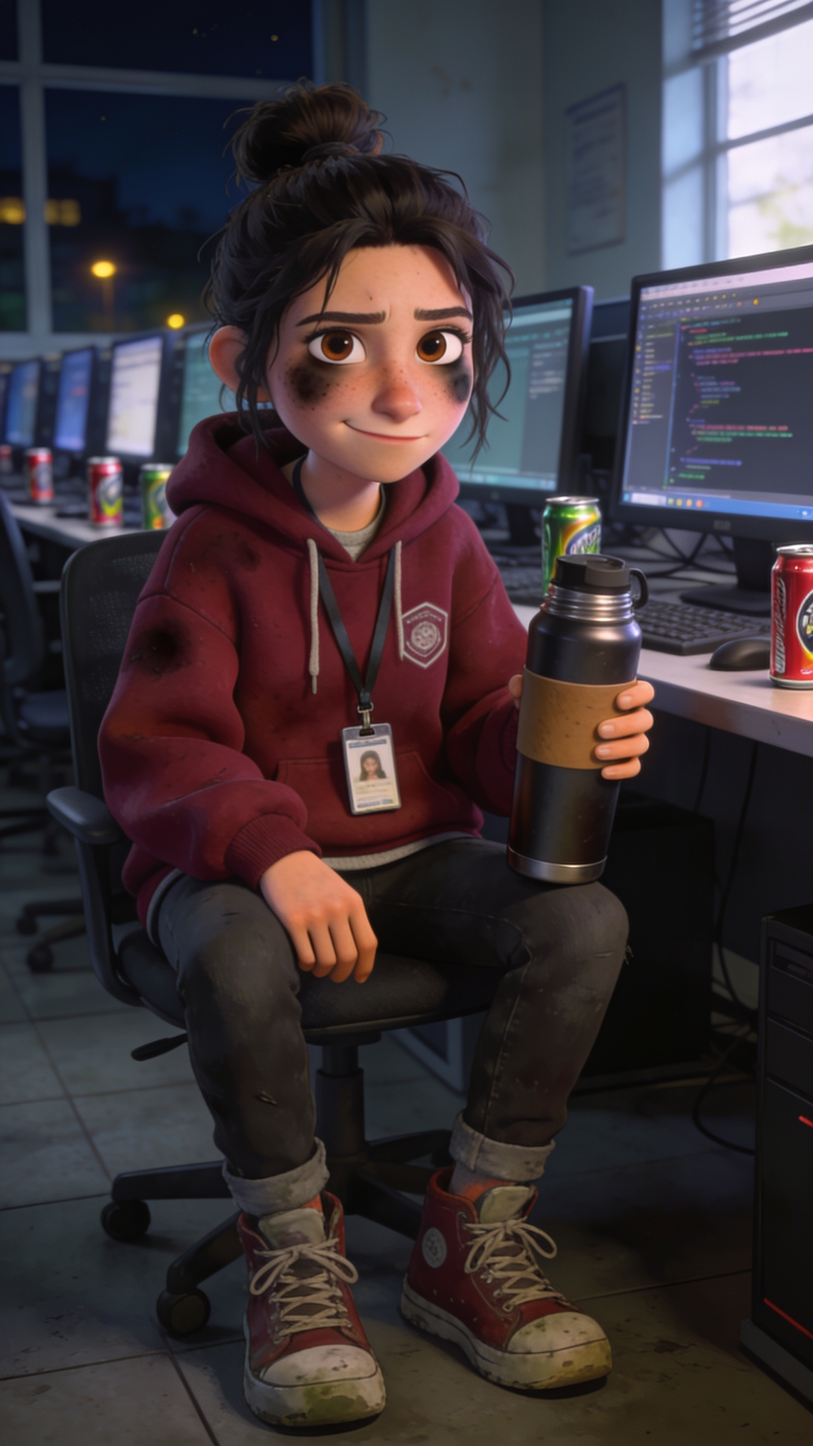
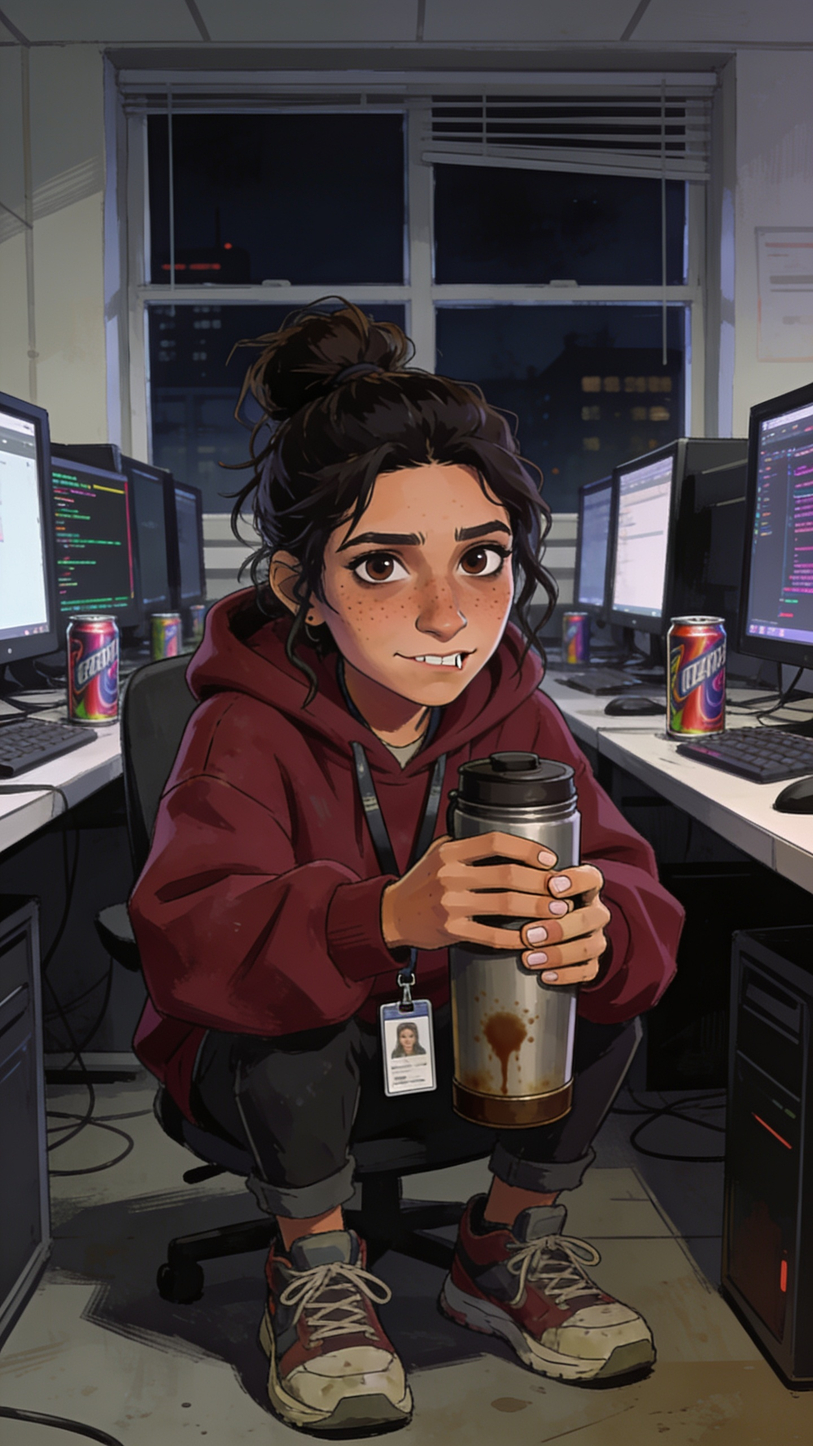
feat(série): cast v2 — réalisme stylisé adulte (âges, types, imperfections)
DA corrigée après feedback : veine Arcane, proportions réalistes,
règle des imperfections gravée dans la bible (dents de travers,
barbe clairsemée, cernes vraies, lèvres gercées...).
Fiches canon v2 : âges + types + 2-3 défauts-charme par perso.

diff --git a/series/bible.md b/series/bible.md
@@ -224,5 +224,115 @@ L'identité vit dans des **fichiers de référence**, pas dans des descriptions.
 
 ---
 
+## 13. Les caricatures — fiches physiques canoniques
+
+> Principe : **la silhouette raconte le personnage avant qu'il parle.**
+> Chaque perso a SA forme, SA couleur, SON accessoire. Reconnaissable en 0,3 s.
+> Règle de génération : décrire la TECHNIQUE, jamais une franchise.
+> Interdit : lumière dorée chaleureuse + grands yeux (tue le deadpan).
+
+### Rendu officiel ✅ (v2 — corrigé après feedback auteur)
+**Réalisme stylisé adulte, veine Arcane** : proportions et structure faciale
+RÉALISTES (des adultes de 25 ans, pas des personnages mignons), textures
+peintes à la main, coups de pinceau visibles, trame légère, palette
+neutre-froide, lumière naturelle dramatique mais sobre.
+**Interdits** : yeux surdimensionnés, rondeurs Pixar, peau lisse parfaite,
+look « dessin animé enfant ». (Référence interne : `da-tests/sam-hybride.png`.)
+
+**Règle des imperfections** : chaque visage porte 2–3 défauts qui font son
+charme — dents légèrement de travers, barbe clairsemée de mec de 25 ans,
+cicatrices d'acné, cernes vraies, nez pas droit, oreilles décollées, frisottis,
+lèvres gercées, ongles rongés. La perfection tue l'identification (loi 1 :
+hyper-spécificité — ça vaut aussi pour les visages).
+
+### Âges, types et imperfections (canon v2)
+- **Téo, 24** — Français rural (Massif central). Peau hâlée par le dehors,
+  taches de rousseur, dents du bonheur légères dans un sourire franc, oreilles
+  un peu décollées, coupe « coiffeur du village » ratée aux pattes.
+- **Sam, 26** — Franco-algérien. Buzz cut à la ligne nette, barbe courte
+  taillée au millimètre, cernes creusées permanentes, nez busqué légèrement
+  dévié, petites cicatrices d'acné sur les joues.
+- **Nabil, 25** — Franco-marocain. Boucles avec frisottis, **barbe clairsemée
+  qui ne se connecte pas** (la barbe de 25 ans), sourcils épais presque
+  joints, cernes légères, ongles rongés, col de chemise jamais net.
+- **Jimmy, 26** — Français, bronzage limite artificiel. Banane gélifiée qui
+  commence DÉJÀ à se dégarnir aux tempes, sourire trop blanc un poil trop
+  grand, irritation de rasoir dans le cou, fine pellicule de sueur d'effort
+  permanent. Son imperfection : l'effort se voit.
+- **Inès, 25** — Franco-tunisienne. Chignon qui fuit en mèches folles, cernes
+  douces et vraies (PAS des coquards), lèvres gercées, ongles rongés sur le
+  thermos, tache de café sur le hoodie.
+- **Léna, 25** — Métisse franco-sénégalaise. **Petit écart entre les dents de
+  devant — son charme signature**, baby hairs qui s'échappent, taches de
+  rousseur claires, cardigan crème un peu bouloché (la perfection vécue,
+  pas neuve).
+- **Pierre-Édouard, 52** — Français. Front trop lisse pour son âge (botox)
+  mais pattes d'oie, dents trop blanches, léger embonpoint sous le blazer,
+  marque de bronzage des lunettes de soleil.
+
+### TÉO — formes RONDES, couleur VERT/TERRE
+Carrure de ferme : épaules larges, joues pleines et colorées, sourcils épais.
+Coupe courte pratique « coiffeur du village ». Polaire ou polo trop propre
+acheté exprès pour Paris, pantalon un poil trop court, chaussettes de sport
+blanches. **Accessoire** : sac à dos porté sur LES DEUX épaules + écharpe du
+club de foot de son bled. **Expression canonique** : sourire ouvert, yeux
+légèrement dépassés par les événements. **Décor** : chambre aux sacs Ikea.
+
+### SAM — silhouette VERTICALE, couleur NOIR
+Grand, sec, posture impeccable. **Dé-Milesé** : crâne dégradé court (buzz/fade)
++ barbe courte entretenue au millimètre. Paupières mi-closes permanentes.
+**L'uniforme** : sept hoodies noirs identiques (la caricature de son
+organisation — même tenue chaque jour), claquettes-chaussettes à la coloc.
+**Accessoire** : casque autour du cou + un tupperware à la main. Gestes lents,
+économes. **Expression canonique** : deadpan absolu — il a déjà répondu dans sa
+tête et a décidé que ça ne valait pas la peine. **Décor** : son coin, étagère
+de meal preps.
+
+### NABIL — silhouette PENCHÉE EN AVANT, couleur BLEU-GRIS
+Taille moyenne, boucles en bataille (à force d'y passer les mains), cernes
+légères, sourcils ultra-expressifs — le visage qui pense trop fort. Vêtements
+en couches qui ne tranchent pas : chemise ouverte sur t-shirt (entre formel et
+casual = incapable de choisir, même vestimentairement). **Accessoire** : tote
+bag débordant de bouquins + téléphone à 14 onglets en main. **Expression
+canonique** : sourcils froncés, bouche entrouverte — sur le point de poser une
+question. **Décor** : bureau chaos organisé, piles de livres, double écran.
+
+### JIMMY — silhouette EN V, couleur MARINE + BLANC ÉCLATANT
+Coiffé-gélifié frais du barbier, sourire de pitch permanent, sourcils en
+position « opportunité ». **L'uniforme startup** : doudoune SANS MANCHES sur
+chemise, sneakers blanches immaculées, montre connectée. **Accessoire** :
+AirPods vissés en permanence (même quand tu lui parles) + téléphone tenu comme
+un micro. **Expression canonique** : sourire 100 % confiance, regard déjà sur
+le prochain truc. **Décor** : devant un whiteboard couvert de flèches.
+
+### INÈS — silhouette COMPACTE, couleur BORDEAUX
+Petite mais dense — de l'énergie comprimée. Chignon serré à la va-vite (pas le
+temps), cernes portées comme des médailles, hoodie XXL de l'école dans lequel
+elle dort au cluster, baskets usées jusqu'à la trame. **Accessoire** : thermos
+de café géant + tour de cou avec son badge d'accès. **Expression canonique** :
+épuisée mais le petit sourire en coin de celle qui ne lâchera JAMAIS. **Décor** :
+le cluster, rangées d'ordis, canettes d'energy drink.
+
+### LÉNA — la SEULE silhouette CLAIRE du cast, couleur CRÈME/JAUNE PÂLE
+Fonction visuelle : le rayon de soleil — tout le cast est sombre, elle est
+lumineuse. Soignée sans effort : cardigan pastel, cheveux simples parfaits,
+posture détendue. **Accessoire** : une plante ou un carnet propre — son monde
+est en ordre. **Expression canonique** : sourire chaleureux sincère, regard
+direct et calme. **Décor** : coin lumineux et rangé, plantes vertes.
+
+### PIERRE-ÉDOUARD — silhouette TED-TALK, couleur GRIS BLAZER
+La cinquantaine entretenue, tempes grises parfaites, léger bronzage permanent.
+**LA caricature** : blazer sur t-shirt de l'école, sneakers blanches « pour
+rester jeune », badge lanyard. Posture conférence : mains en triangle.
+**Expression canonique** : sourire corporate à 40 000 € de media training.
+**Décor** : hall de l'école, poufs colorés, néon avec slogan creux.
+
+### Palette d'ensemble
+Cast sombre (noir/marine/bleu-gris/bordeaux/terre) + UNE tache claire (Léna)
++ UN costume d'adulte (P-E). Dans n'importe quel plan de groupe, chacun est
+identifiable par sa seule couleur-silhouette.
+
+---
+
 *Document vivant. Version initiale générée le 2026-06-12 à partir des sessions
 de développement créatif avec l'auteur.*
